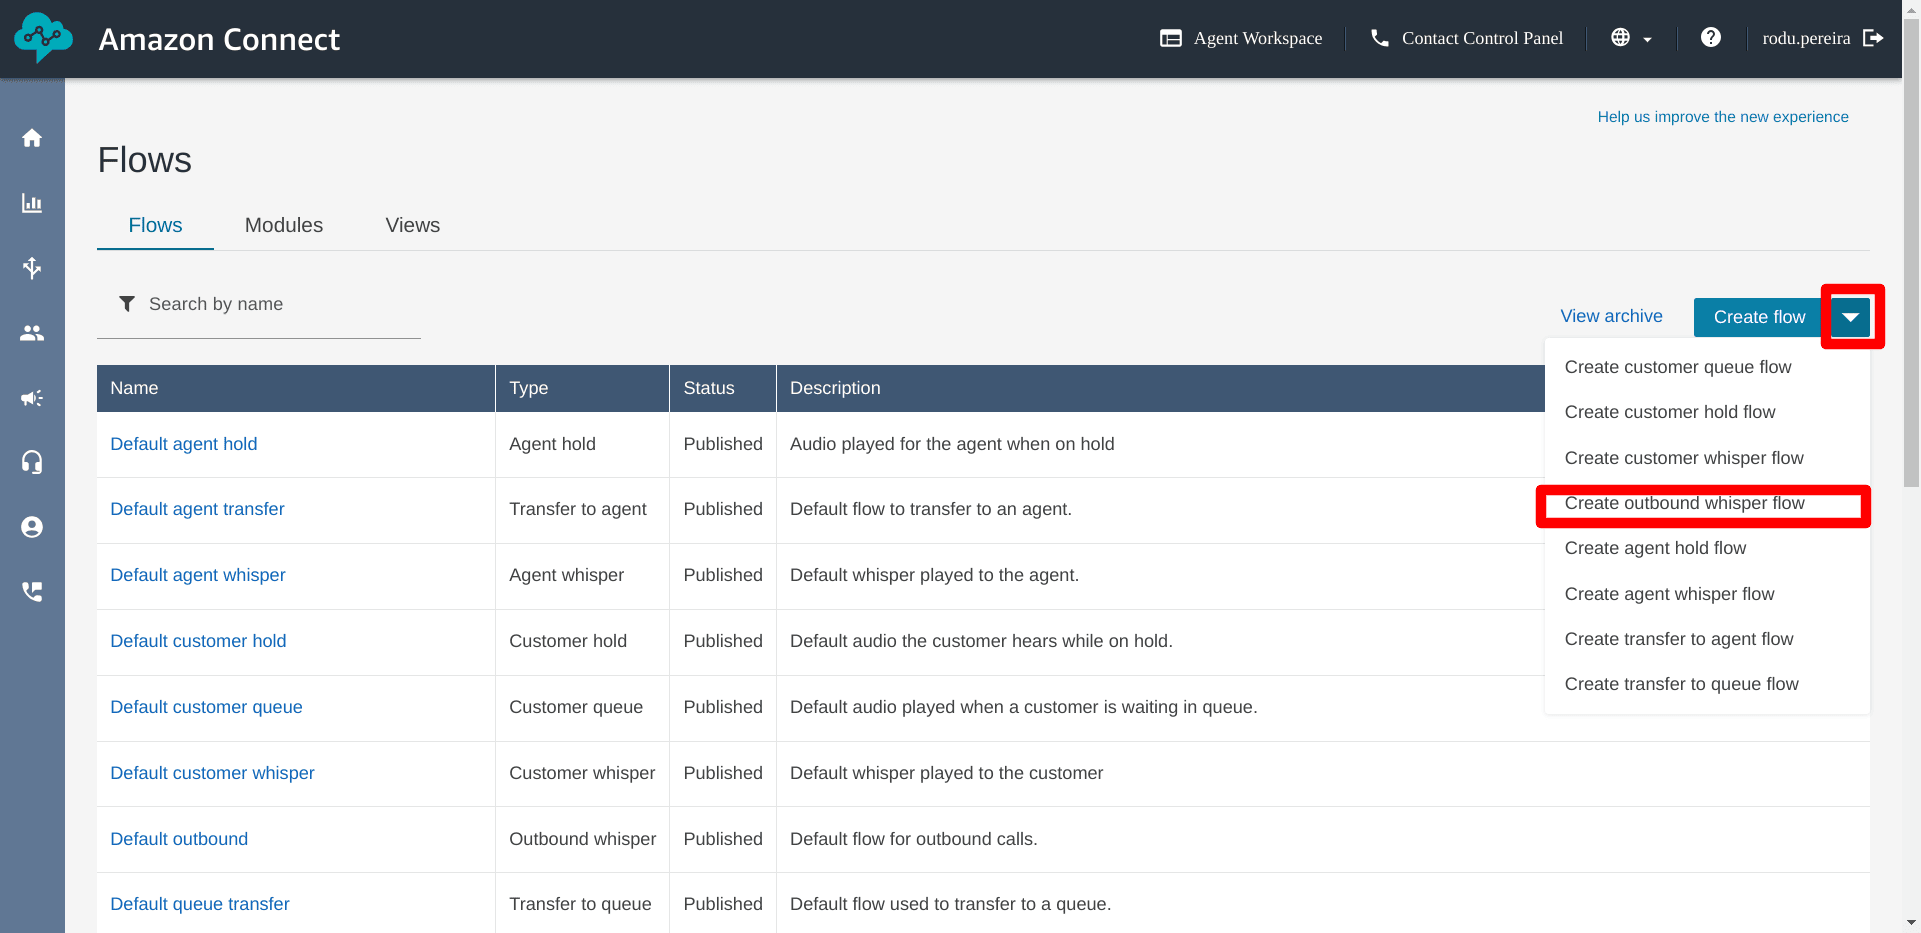
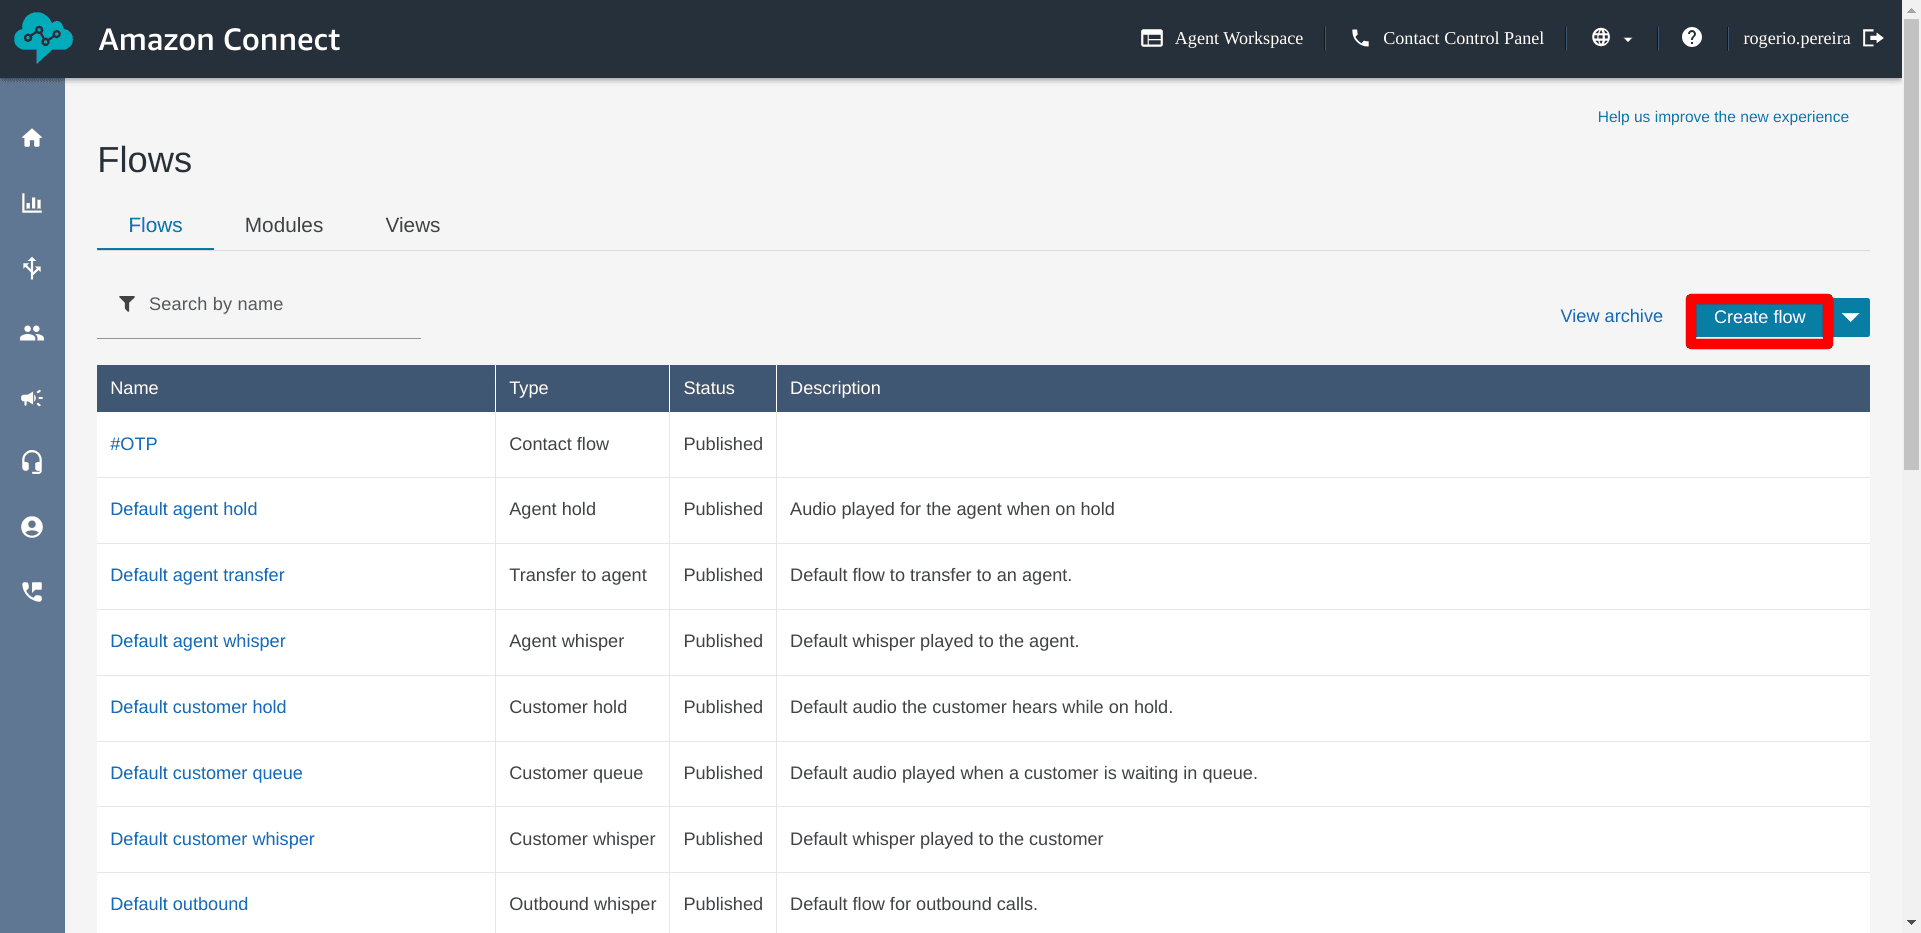
docs: Update Readme

diff --git a/README.md b/README.md
@@ -1,5 +1,155 @@
 
-# SNS (Origination Number)
+# About this project
+## Laravel Sail
+This project uses Laravel Sail, (if running over Windows, **Laravel Sail requires WSL2, and won't run in HyperV**). 
+
+_**NOTE**_:  
+By default, Sail commands are invoked using the `vendor/bin/sail` script that is included with all new 
+Laravel applications.  
+However, instead of repeatedly typing `vendor/bin/sail` to execute Sail commands, you may wish 
+to configure a shell alias that allows you to execute Sail's commands more easily: 
+
+```
+alias sail='[ -f sail ] && sh sail || sh vendor/bin/sail'
+```
+
+## Installation
+1. Clone the project
+    ```
+    git@github.com:rogerio-pereira/Laravel-OTP-email_sms_voice.git ./LaravelOTP
+    ```
+2. Access project folder
+    ```
+    cd LaravelOTP
+    ```
+3. Copy .env file
+    ```
+    cp .env.example .env
+    ```
+4. Update `.env` file
+    ```
+    APP_NAME=
+
+    DB_CONNECTION=mysql
+    DB_HOST=127.0.0.1
+    DB_PORT=3306
+    DB_DATABASE=
+    DB_USERNAME=
+    DB_PASSWORD=
+    #FORWARD_DB_PORT= #Use if port 3306 is already assigned
+
+    REDIS_HOST=127.0.0.1
+    REDIS_PASSWORD=null
+    REDIS_PORT=6379
+    #FORWARD_REDIS_PORT= #Use if port 6379 is already assigned
+
+    MAIL_MAILER=ses
+    MAIL_FROM_ADDRESS="hello@example.com" #Use an email validated in SES
+    MAIL_FROM_NAME="${APP_NAME}"
+
+    AWS_ACCESS_KEY_ID=
+    AWS_SECRET_ACCESS_KEY=
+    AWS_CONNECT_INSTANCE_ID=<AWS CONNECT, step 19>
+    AWS_CONNECT_QUEUE_ID=<AWS CONNECT, step 19>
+    AWS_CONNECT_CONTACT_FLOW_ID=<AWS CONNECT, step 52>
+    ```
+5. Install composer dependencies
+    ```
+    docker run --rm \
+        -u "$(id -u):$(id -g)" \
+        -v "$(pwd):/var/www/html" \
+        -w /var/www/html \
+        laravelsail/php83-composer:latest \
+        composer install --ignore-platform-reqs
+    ```
+6. Generate app key
+    ```
+    sail artisan key:generate
+    ```
+7. Start the containers
+    ```
+    sail up -d
+    ```
+8. Run migrations
+    ```
+    sail artisan migrate
+    ```
+9. Compile js
+    ```
+    sail npm run build
+    ```
+10. Run tests
+    ```
+    sail test --parallel
+    ```
+11. Clear cache
+    ```
+    sail artisan optimize:clear
+    ```
+
+---
+
+# AWS Configuration
+## SES
+1. Go to AWS SES Page
+2. On Left Menu > Configuration > `Verified identities`
+3. Click `Create Identity`
+    ![SES - Create Identity](.github/Readme/SES-3.png)
+4. Select `Email Address`
+5. Type Email address
+6. Click Create Identity
+    ![SES - Create Identity](.github/Readme/SES-6.png)
+7. Access your email
+8. Check for AWS email `Amazon Web Services – Email Address Verification Request in region <region name>`  
+    _**NOTE**_: Might be on span folder  
+9. Click the link to verify the indentity
+10. Go to AWS SES Page again
+11. On Left Menu > Configuration > `Verified identities`
+12. Select email
+13. Click `Send test email`
+    ![SES - Send Test Email](.github/Readme/SES-13.png)
+14. Select `Custom` in Scenarion
+15. Type the same verified email (step 5) in `Custom recipient` field
+16. Type a message
+17. Click Send Test Email
+    ![SES - Send Test Email](.github/Readme/SES-17.png)
+18. Go to AWS SES Page again
+19. On Left Menu > `Get set up`
+20. Scroll down to `Get production access and start sending emails` section
+21. Click `Create Identity`
+    ![SES - Create Identity](.github/Readme/SES-21.png)
+22. Select Domain
+23. Type the domain
+24. Click `Create Identity`
+    ![SES - Create Identity](.github/Readme/SES-24.png)
+25. Scroll down to `DomainKeys Identified Mail (DKIM)` section
+26. Add all records to your domain DNS
+    ![SES - DNS Records](.github/Readme/SES-26.png)
+27. Wait until the DNS records are verified
+    _**NOTE**_: It might take up to 24 hours for the DNS records to be verified
+
+### Production Access
+After everything is tested you need to request Production access (leave sandbox)
+
+1. Go to AWS SES Page again
+2. On Left Menu > `Get set up`
+3. Click `Request production access`
+    ![SES - DNS Records](.github/Readme/SES-Sandbox-3.png)
+4. Select `Transactional` on Mail Type
+5. Type your website in `Website URL`
+5. In `Use case description` be very specific on:
+    - How do you plan to build or acquire your mailing list?
+    - How do you plan to handle bounces and complaints?
+    - How can recipients opt out of receiving email from you?  
+    _**NOTE**_: Add as much detail as possible (this field is crucial on AWS Team allowing your account to leave sandbox)
+6. Select your `Prefered contact language`
+7. Select `I agree to ...`
+8. Click `Submit Request`
+    ![SES - Sandbox form](.github/Readme/SES-Sandbox-8.png)
+9. Wait for a response
+
+
+## SNS (Origination Number)
 1. Go to AWS SNS Page
 2. On Left Menu > Mobile > `Origination Number`
 3. Click `Provision numbers in Pinpoint`
@@ -11,6 +161,8 @@
 7. Make sure voice and SMS are checked
 8. Select Default message type > Transactional
     ![Origination Number config](.github/Readme/SNS-OriginatingNumber-8.png)
+9. Click Next
+9. Click Request
 9. Click the Phone number and you'll be redirected to AWS Pinpoint page
 10. Click on left Menu > Configurations > Registrations
 11. Click `Create Registration`
@@ -37,7 +189,7 @@ Hello, new OTP (OneTimePassword) XXXXXX for application XYZ
 24. Click Submit Registration
 25. Wait until the the number is provisioned (can take up to 15 business days) (for me it took 14 business day, 21 day in total)
 
-# SNS Configuration (Sandbox phone)
+## SNS Configuration (Sandbox phone)
 _**NOTE**_: Do this step only after the phone number requested in SNS (Origination Number) is active
 1. Go to AWS SNS Page
 2. On Left Menu > Mobile > Text Messaging (SMS)
@@ -54,7 +206,7 @@ _**NOTE**_: Do this step only after the phone number requested in SNS (Originati
 12. Click verify Phone Number
 13. Type the code sent to that number
 
-# AWS Connect Configuration
+## AWS Connect Configuration
 1. Go to AWS Connect Page
 2. Click Add Instance
 3. `Identity` Page
@@ -62,7 +214,7 @@ _**NOTE**_: Do this step only after the phone number requested in SNS (Originati
 5. Type an URL  
     eg. connect
 6. Click Next
-    ![Connect Identity](.github/Readme/Connect-6.png)
+    ![Connect Identity](.github/Readme/Connect-Configuration-6.png)
 7. `Administrator` Page
 8. Select Specify Administrator
 9. Fill fields:  
@@ -73,23 +225,23 @@ _**NOTE**_: Do this step only after the phone number requested in SNS (Originati
     e. `Password (verify)`  
     f. `Email`
 10. Click Next
-    ![Connect Administrator](.github/Readme/Connect-10.png)
+    ![Connect Administrator](.github/Readme/Connect-Configuration-10.png)
 11. `Telephony` Page
 12. Uncheck `Allow incoming calls`
 13. Click Next
-    ![Connect Telephony](.github/Readme/Connect-13.png)
+    ![Connect Telephony](.github/Readme/Connect-Configuration-13.png)
 14. `Data Storage` Page
 15. Copy `Connect Data` bucket
 16. Copy `Flow Logs` cloudwatch
 17. Click Next
-    ![Connect Data Storage](.github/Readme/Connect-17.png)
+    ![Connect Data Storage](.github/Readme/Connect-Configuration-17.png)
 18. Review and Create Page
 19. Click Create Instance
 20. Wait until everything is created
 21. Click your access URL
     ![AWS Connect Access URL](.github/Readme/Connect-Configuration-21.png)
 
-# AWS Connect
+## AWS Connect
 1. Fill username and password and click `Sign In`  
     _**NOTE**_: Defined in `AWS Connect Configuration` > Step 9.c and 9.d
     ![Connect Login Page](.github/Readme/Connect-1.png)
@@ -121,7 +273,7 @@ _**NOTE**_: Do this step only after the phone number requested in SNS (Originati
 21. Click `View flows`
     ![Connect View Flows](.github/Readme/Connect-21.png)
 22. On the arrow next to `Create Flow`
-23. Click `Create outbound whisper flow`
+23. Click `Create flow`
     ![Connect Flows - Create Outbound whisper flow](.github/Readme/Connect-23.png)
 24. Enter a flow name
 25. Search, drag and drop `Play prompt`
@@ -164,10 +316,4 @@ _**NOTE**_: Do this step only after the phone number requested in SNS (Originati
 51. You’ll get an ARN in the form of `arn:aws:connect:<region>:<account-id>:instance/<instance-id>/contact-flow/<contact-flow-id>`
 52. Copy `contact-flow-id` and update .env (see below)
 
-
-# Update .env file
-```
-AWS_CONNECT_INSTANCE_ID=<AWS CONNECT, step 19>
-AWS_CONNECT_QUEUE_ID=<AWS CONNECT, step 19>
-AWS_CONNECT_CONTACT_FLOW_ID=<AWS CONNECT, step 52>
-```
+---
